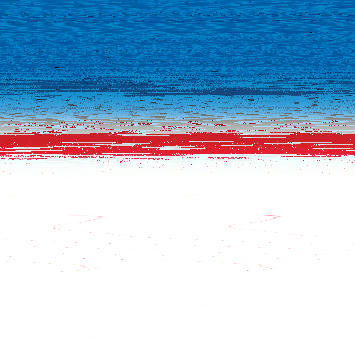
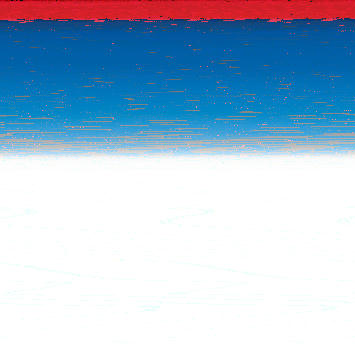
fixed some issues

diff --git a/src/main.rs b/src/main.rs
@@ -12,7 +12,7 @@ fn main() {
     let mut sorted_pixels = unsorted_pixels.clone();
 
     // Sorting by red color in acending order
-    unsorted_pixels.sort_by(|a, b| a.2[0].cmp(&b.2[0]));
+    unsorted_pixels.sort_by(|a, b| a.2[1].cmp(&b.2[1]));
 
     for i in 0..unsorted_pixels.len() {
         sorted_pixels[i].2 = unsorted_pixels[i].2;
